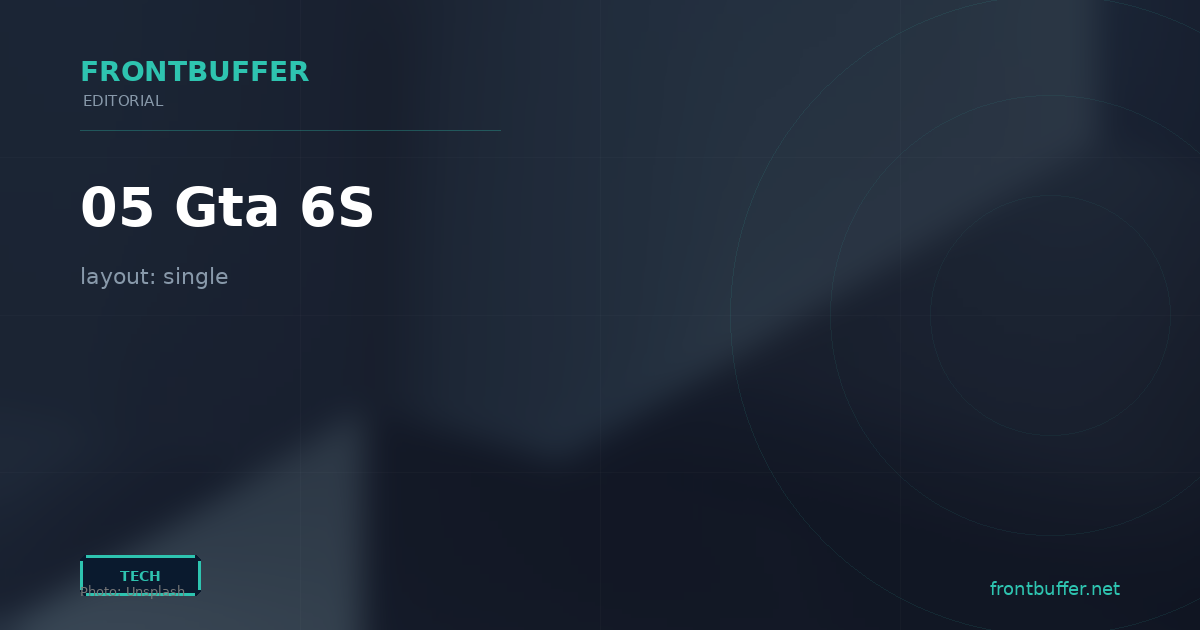
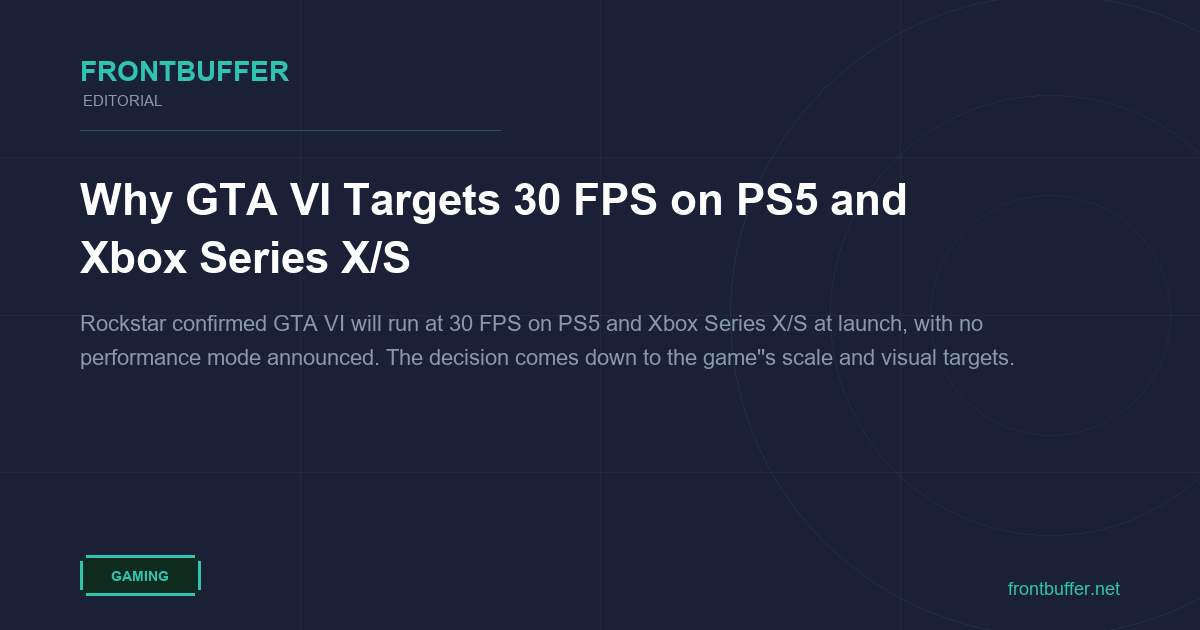
fix GTA/Galaxy Fold posts, regenerate GTA og image

diff --git a/_posts/2026-09-13-galaxy-z-fold-8-vs-fold-7-hinge-durability-comparison.md b/_posts/2026-09-13-galaxy-z-fold-8-vs-fold-7-hinge-durability-comparison.md
@@ -4,7 +4,7 @@ title: 'Galaxy Z Fold 8 vs Fold 7 hinge durability comparison'
 date: 2026-09-13 14:55:00 +0000
 categories: [tech]
 tags: ["comparison", "galaxy", "fold", "durability"]
-excerpt: 'The Galaxy Z Fold 8 (August 2026) replaced the Z Fold 7''s Armor FlexHinge with a dual-rail hinge. Samsung claims the new design improves long-term…'
+excerpt: 'The Galaxy Z Fold 8 (August 2026) replaced the Z Fold 7''s Armor FlexHinge with a dual-rail hinge. Samsung claims the new design improves long-term crease reduction and opening smoothness.'
 header:
   image: https://images.frontbuffer.net/posts/galaxy-z-fold-8-vs-fold-7-hinge-durability-comparison/og.png
   overlay_filter: 0
@@ -15,40 +15,34 @@ share: true
 
 The Galaxy Z Fold 8 (August 2026) replaced the Z Fold 7's Armor FlexHinge with a dual-rail hinge. Samsung claims the new design improves long-term crease reduction and opening smoothness. Here is how the two compare in real-world durability testing.
 
-### The Enduring Importance of Foldable Hinge Design
+### What Both Phones Share
 
 The Galaxy Z Fold 8 and Galaxy Z Fold 7 share an IP48 rating, the same hinge mechanism category, and the same inner display material limitation — a plastic composite that scratches at Mohs level 2. What changed between generations is the hinge design and outer display protection. Here is what the durability data shows.
 
-### Galaxy Z Fold 8: Insights from Hinge Testing
+### Galaxy Z Fold 8 Hinge Testing
 
-With each new generation, manufacturers aim to refine and strengthen the core components of foldable devices. For the Galaxy Z Fold 8, Samsung has implemented notable advancements in its hinge design. The device features a new dual-rail hinge mechanism, a departure from the single-rail design used in previous models, including the Galaxy Z Fold 7. This dual-rail system is engineered to distribute folding stress more evenly across a wider surface area, theoretically enhancing long-term resilience. Samsung officially rates the Galaxy Z Fold 8 hinge to withstand 500,000 fold cycles, a figure that translates to approximately 5.5 to 10 years of typical use, depending on daily folding frequency.
+Samsung's new dual-rail hinge replaces the single-rail design used in the Z Fold 7. The dual-rail system distributes folding stress across a wider surface area. Samsung officially rates the Z Fold 8 hinge to withstand 500,000 fold cycles — roughly 5.5 to 10 years of typical use depending on daily folding frequency.
 
-Independent durability tests, such as those conducted by JerryRigEverything, have put the Galaxy Z Fold 8 through rigorous trials. The device's outer display, protected by Corning Gorilla Glass Ceramic 3, showed resistance to scratches at level 6 on the Mohs hardness scale, with deeper grooves appearing at level 7. However, the inner foldable display, made of a plastic composite, remains highly susceptible to scratches, showing marks at just level 2 on the Mohs scale, even from fingernails or common pocket items. In bend tests, the Galaxy Z Fold 8 demonstrated solid structural integrity, exhibiting minimal flex when closed and surviving reverse bending without catastrophic failure, although the back panel temporarily detached before reattaching.
+Independent durability tests from JerryRigEverything show the outer display, protected by Corning Gorilla Glass Ceramic 3, holds up to Mohs level 6 scratches, with deeper grooves appearing at level 7. The inner foldable display remains vulnerable at Mohs level 2 — fingernails and common pocket debris leave marks. In bend tests, the Z Fold 8 showed minimal flex when closed and survived reverse bending without structural failure, though the back panel briefly separated before reattaching.
 
-Despite these advancements, the Galaxy Z Fold 8 carries an IP48 rating for dust and water resistance. While the "8" signifies excellent water resistance, allowing for submersion in up to 1.5 meters of freshwater for 30 minutes, the "4" indicates protection only against solid objects larger than 1mm. This means the device is not dust-tight, and fine dust or sand particles can still infiltrate the hinge mechanism, as demonstrated in iFixit's testing where sand exposure led to grinding noises and impaired hinge function. However, some reports suggest that contact with sand no longer causes the immediate, catastrophic jamming seen in earlier foldable generations.
+The Z Fold 8 carries an IP48 rating. The "8" covers submersion up to 1.5 meters in freshwater for 30 minutes. The "4" means protection only against solid objects larger than 1mm — fine dust and sand can still reach the hinge. iFixit testing confirmed that sand exposure causes grinding and impaired hinge movement, though the failure is less immediate than on earlier foldable generations.
 
-### Comparing the Fold 8 and Fold 7: Durability Aspects
+### Fold 8 vs Fold 7: Key Differences
 
-A direct comparison of the Galaxy Z Fold 8 and Galaxy Z Fold 7 reveals both shared characteristics and key generational improvements in durability. Both devices share an IP48 rating for dust and water resistance. This means both models offer good protection against water immersion (up to 1.5 meters in freshwater for 30 minutes), but neither is fully dustproof. The "4" in the IP48 rating indicates protection against solid objects larger than 1mm, leaving them vulnerable to fine dust and sand particles. This is a important point for users in dusty environments.
+Both devices share IP48 water resistance and a 500,000-cycle hinge rating. The meaningful differences are in hinge design and outer display glass.
 
-Regarding the hinge mechanism, the Galaxy Z Fold 7 featured an "Armor FlexHinge" and was officially rated for 500,000 fold cycles. While some user-conducted tests on the Z Fold 7 showed issues like creaking hinges after 46,000 folds and speaker failure by 175,000 folds, the display itself often reached 200,000 folds without dead pixels. The Z Fold 7 also introduced a thinner and lighter design compared to its predecessors. However, some users found its flat side rails made it challenging to open the device easily. The Z Fold 7 utilized Corning Gorilla Glass Ceramic 2 on its cover screen and Gorilla Glass Victus 2 on its back.
+The Z Fold 7 used an Armor FlexHinge with Gorilla Glass Ceramic 2 on the cover screen. User-conducted stress tests on the Z Fold 7 reported creaking hinges around 46,000 folds and speaker failure by 175,000 folds, though displays often reached 200,000 folds without dead pixels. The Z Fold 7's flat side rails made one-handed opening difficult for some users.
 
-The Galaxy Z Fold 8 builds upon this foundation with several refinements. Its new dual-rail hinge mechanism is designed for more even stress distribution, and Samsung also rates it for 500,000 folds. A significant user experience improvement in the Z Fold 8 is its redesigned side rails and a 20% wider opening gap, which addresses the difficulty some users experienced when opening the Z Fold 7. The Z Fold 8 also upgrades the outer display protection to Corning Gorilla Glass Ceramic 3, offering enhanced scratch resistance over the Z Fold 7's Ceramic 2. Both models, however, continue to feature inner displays that are highly susceptible to scratches at Mohs level 2.
+The Z Fold 8 addresses this with redesigned side rails and a 20% wider opening gap. The outer display upgrades to Gorilla Glass Ceramic 3. The dual-rail hinge is rated for the same 500,000 cycles but distributes stress differently. Both phones share the same inner display vulnerability at Mohs level 2.
 
-### Addressing Prior Galaxy Z Fold Hinge Issues
+### Previous Z Fold Hinge Problems in Context
 
-The journey of foldable phones has not been without its challenges, and concerns around **Galaxy Z Fold hinge issues** have been a recurring theme for the product line. These issues, while not universal, have ranged from visible dust ingress under the screen to less fluid folding mechanisms over time, and in some isolated cases, more significant structural problems. Such reports from earlier models have spurred manufacturers to continuously re-evaluate and enhance their hinge designs.
+Hinge durability complaints have followed the Galaxy Z Fold line across multiple generations — dust ingress, stiffening over time, and in isolated cases structural failure. Each iteration has targeted specific failure points from the previous model. The Z Fold 8's dual-rail design and wider opening mechanism are direct responses to Z Fold 7 feedback.
 
-Each new Galaxy Z Fold iteration is, in part, a response to these prior experiences. Engineering teams strive to mitigate known vulnerabilities, whether through improved sealing, redesigned internal components, or enhanced material selection. The development cycle of these devices often involves extensive simulations and real-world stress tests to identify and rectify potential weaknesses before mass production. For the Galaxy Z Fold 8, the introduction of the dual-rail hinge and the improved opening mechanism are direct responses to feedback and challenges faced by previous generations, including the Galaxy Z Fold 7. Despite these efforts, the persistent IP48 rating across both models means that while water resistance is solid, the vulnerability to fine dust ingress remains a known limitation that users should be aware of. Each generation has addressed specific failure points from the previous one.
+The IP48 rating has not changed between generations, which means fine dust vulnerability is an ongoing limitation rather than a solved problem. Users in dusty environments should account for this regardless of which generation they own.
 
-### User Experience and Long-Term Reliability
+### What This Means for Buyers
 
-Beyond laboratory tests, the true measure of hinge durability lies in its performance during everyday use. A durable hinge contributes significantly to the overall user experience, ensuring that the device feels premium and functions reliably over an extended period. A smooth, consistent folding and unfolding action is critical for user satisfaction. The Galaxy Z Fold 8's redesigned hinge and wider opening gap aim to provide a more effortless and satisfying user experience compared to its predecessor. Moreover, enhanced durability translates into greater peace of mind for consumers, who invest significantly in these advanced smartphones.
+Both phones offer the same 500,000-cycle hinge warranty and IP48 water resistance. The Z Fold 8 adds a dual-rail hinge, Gorilla Glass Ceramic 3 on the outer display, and an easier opening experience — changes that address the most common Z Fold 7 criticisms.
 
-Improved hinge design also has implications for the device's resale value and its environmental footprint, as a longer-lasting product reduces the frequency of replacements. While both the Z Fold 8 and Z Fold 7 offer impressive water resistance with their IP48 rating, the shared limitation regarding fine dust protection means users should exercise caution in dusty environments to preserve the hinge's longevity. The continued focus on hinge resilience is a evidence of its pivotal role in the success and acceptance of foldable technology. Consumers are increasingly discerning, and the ability of a device to withstand wear and tear is a major factor in purchasing decisions.
-
-### What This Means for Potential Buyers
-
-For consumers weighing the Galaxy Z Fold 8 against its predecessor, the Galaxy Z Fold 7, understanding the advancements in hinge durability is a key consideration. Both models boast an impressive 500,000-fold rating for their hinges and share the IP48 water resistance rating. However, the Galaxy Z Fold 8 incorporates the latest refinements in hinge technology, including a dual-rail mechanism and an improved opening experience that addresses a common complaint about the Z Fold 7. Additionally, the Z Fold 8 features a more durable outer display with Gorilla Glass Ceramic 3.
-
-Those prioritizing the utmost in structural integrity, a smoother opening experience, and the latest engineering solutions might find the Galaxy Z Fold 8 to be the more compelling option for a device designed for longevity. For current owners of the Galaxy Z Fold 7, assessing the tangible benefits of the newer model's hinge design and improved ergonomics could be a deciding factor for an upgrade. Therefore, when choosing between these models, consider that while both share an IP48 rating, the Z Fold 8's dual-rail hinge and Gorilla Glass Ceramic 3 outer display offer tangible improvements in daily resilience against stress and scratches, making it a more solid choice for long-term use despite the shared dust vulnerability.
+For Z Fold 7 owners, the hinge and glass upgrades are real but incremental. For buyers choosing between the two on the used or discounted market, the Z Fold 8's outer display protection and improved ergonomics are the clearest practical advantages. Neither phone is suitable for dusty environments without a protective case.

diff --git a/_posts/2026-09-14-05-gta-6s.md b/_posts/2026-09-14-05-gta-6s.md
@@ -1,10 +1,10 @@
 ---
 layout: single
-title: '05 Gta 6S'
+title: 'Why GTA VI Targets 30 FPS on PS5 and Xbox Series X/S'
 date: 2026-09-14 14:43:00 +0000
-categories: [tech]
-tags: ["explainer", "gta", "6s"]
-excerpt: 'layout: single'
+categories: [gaming]
+tags: ["explainer", "gta", "gaming", "hardware"]
+excerpt: 'Rockstar confirmed GTA VI will run at 30 FPS on PS5 and Xbox Series X/S at launch, with no performance mode announced. The decision comes down to the game''s scale and visual targets.'
 header:
   image: https://images.frontbuffer.net/posts/05-gta-6s/og.png
   overlay_filter: 0
